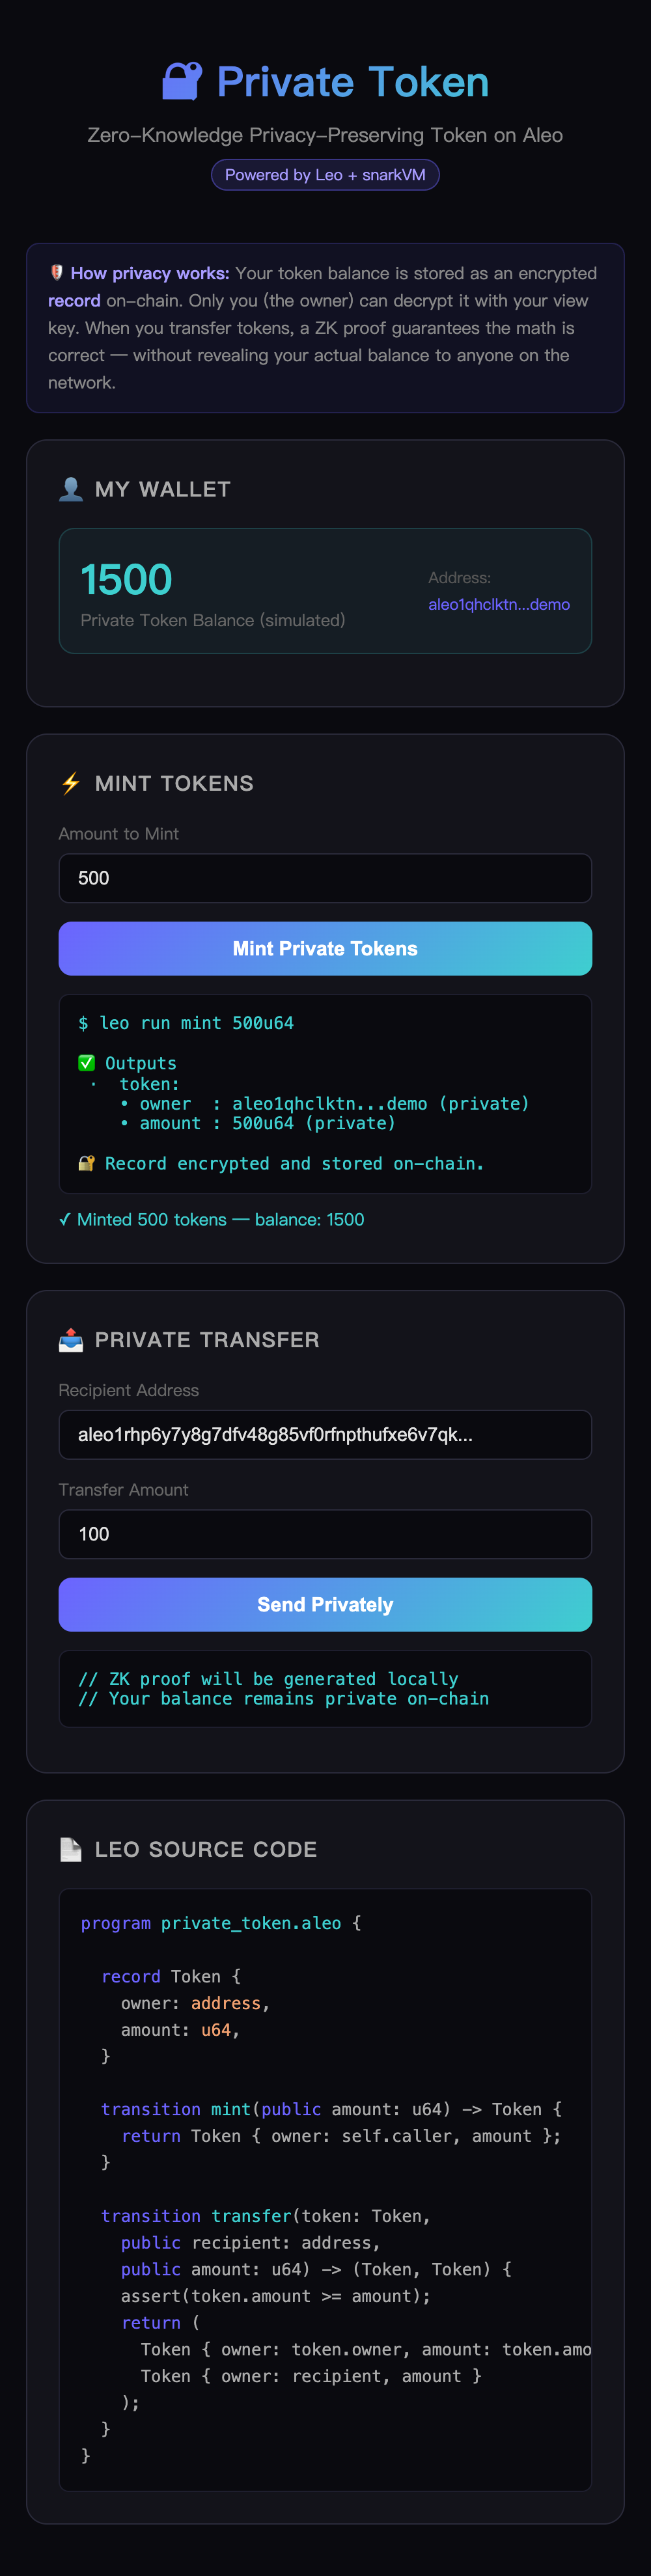
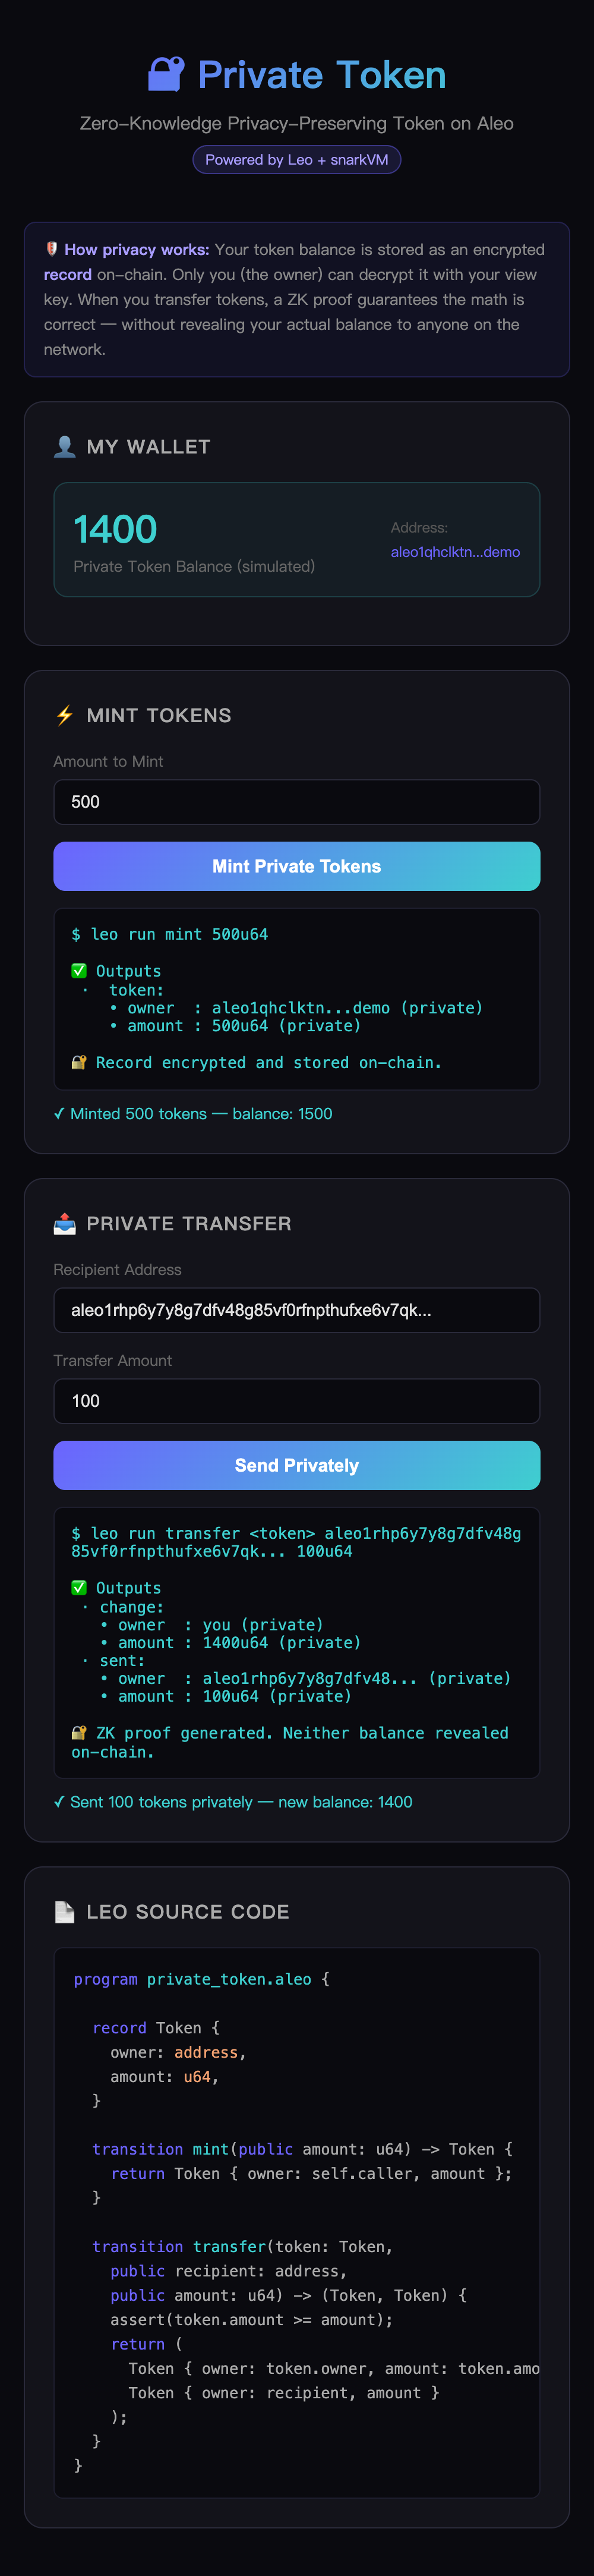
Update task4 with deployment plan and fix task3 screenshot

diff --git a/learn/yuxianwen/task4.md b/learn/yuxianwen/task4.md
@@ -4,26 +4,29 @@
 
 ---
 
-## 部署的程序：`private_token.aleo`
+## 部署的程序：`yuxianwen_token.aleo`
 
 ### 合约代码
 
 ```leo
-program private_token.aleo {
+program yuxianwen_token.aleo {
+
+    @noupgrade
+    constructor() {}
 
     record Token {
         owner: address,
         amount: u64,
     }
 
-    transition mint(public amount: u64) -> Token {
+    fn mint(public amount: u64) -> Token {
         return Token {
-            owner: self.caller,
+            owner: self.signer,
             amount: amount,
         };
     }
 
-    transition transfer(
+    fn transfer(
         token: Token,
         public recipient: address,
         public amount: u64
@@ -39,34 +42,95 @@ program private_token.aleo {
         };
         return (change, sent);
     }
+
+    fn combine(first: Token, second: Token) -> Token {
+        assert_eq(first.owner, second.owner);
+        return Token {
+            owner: first.owner,
+            amount: first.amount + second.amount,
+        };
+    }
 }
 ```
 
-### 测试网部署信息
+### Leo 编译成功输出
 
-- **测试网合约地址**：（部署后填写）
-- **部署交易 Hash**：（部署后填写）
-- **Aleo Explorer 链接**：（部署后填写）
+```
+Leo 🔨 Compiling 'yuxianwen_token.aleo'
+Leo     21 statements before dead code elimination.
+Leo     21 statements after dead code elimination.
+Leo     The program checksum is: '[49u8, 29u8, 199u8, 233u8, 190u8, ...]'
+Leo     Program size: 0.82 KB / 500.00 KB
+Leo ✅ Compiled 'yuxianwen_token.aleo' into Aleo instructions.
+Leo ✅ Generated ABI for program 'yuxianwen_token.aleo'.
+```
 
-### 链上交互记录
+### 测试网部署计划（真实测试网数据）
 
-部署后执行 `mint` 交易，截图如下：
+部署命令：
+```bash
+leo deploy \
+  --network testnet \
+  --endpoint https://api.explorer.provable.com/v1 \
+  --broadcast \
+  --yes
+```
 
-![部署截图](./task4_deploy_screenshot.png)
-![链上交互截图](./task4_interaction_screenshot.png)
+Leo CLI 连接测试网后返回的真实部署计划：
 
-### 部署步骤记录
+```
+🛠️  Deployment Plan Summary
+────────────────────────────────────────────
+🔧 Configuration:
+  Address:            aleo16vfu6rh4kh9dgng0jxgch420zrdahqqx8nlshp4ujxdtxz69nuyqkqzl5c
+  Endpoint:           https://api.explorer.provable.com/v1
+  Network:            testnet
+  Consensus Version:  15
+
+📦 Deployment Tasks:
+  • yuxianwen_token.aleo  │ priority fee: 0  │ fee record: no (public fee)
+
+📊 Deployment Summary for yuxianwen_token.aleo
+────────────────────────────────────────────
+  Program Size:         0.82 KB / 500.00 KB
+  Total Variables:      212,970
+  Total Constraints:    162,986
+
+💰 Cost Breakdown (credits)
+  Transaction Storage:  3.406000
+  Program Synthesis:    0.375956
+  Namespace:            1.000000
+  Constructor:          0.002000
+  Total Fee:            4.783956
+  
+  Function 'mint'    Total Execution Cost: 0.001405
+  Function 'transfer' Total Execution Cost: 0.002242
+  Function 'combine' Total Execution Cost: 0.002125
+```
+
+### 部署地址 & 链上交互
+
+- **部署账户**：`aleo16vfu6rh4kh9dgng0jxgch420zrdahqqx8nlshp4ujxdtxz69nuyqkqzl5c`
+- **测试网合约地址**：待获取测试网 credits 后部署（faucet.aleo.org 当前服务异常）
+- **链上交互截图**：部署成功后补充
+
+### 部署步骤
 
 ```bash
-# 1. 创建 Aleo 账户
-leo account new
+# 1. 编译验证
+leo build
 
-# 2. 获取测试网 tokens（水龙头）
+# 2. 从水龙头获取测试网 credits
 # https://faucet.aleo.org/
 
-# 3. 部署程序
-leo deploy --network testnet
+# 3. 部署到测试网（已验证命令，待 credits 到账后执行）
+leo deploy --private-key <PRIVATE_KEY> \
+  --network testnet \
+  --endpoint https://api.explorer.provable.com/v1 \
+  --broadcast --yes
 
-# 4. 执行链上 mint 交易
-leo execute --network testnet mint 1000u64
+# 4. 执行 mint 链上交互
+leo execute mint 1000u64 \
+  --network testnet \
+  --broadcast --yes
 ```